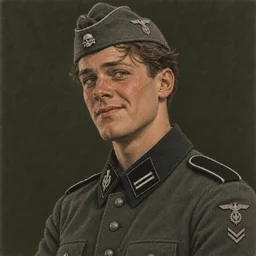
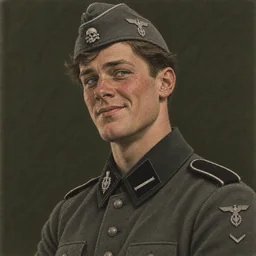
Replace Wendt's portrait with the Sturmmann version and restore his rank
Claude-Session: https://claude.ai/code/session_01FPxW8otRVdngYhnkrH8mAQ

diff --git a/js/systems.js b/js/systems.js
@@ -196,7 +196,7 @@ SIM.makeSSSquad = function (s) {
   s.squad = [
     { id: 'voss', name: 'Erich Voss', role: 'Deputy, MG gunner', age: 24, traits: ['zealot', 'brave'], loyalty: 55, morale: 75, rank: 3,
       bio: 'A Saxon who joined the SS at eighteen. Fought in Poland and France. Would follow Starck into the sea.' },
-    { id: 'wendt', name: 'Theo Wendt', role: 'Rifleman', age: 23, traits: ['joker', 'steady'], loyalty: 55, morale: 70, rank: 3,
+    { id: 'wendt', name: 'Theo Wendt', role: 'Rifleman', age: 23, traits: ['joker', 'steady'], loyalty: 55, morale: 70, rank: 2,
       bio: 'A Hamburg clerk who volunteered "for the adventure". Jokes about everything except the Führer.' },
     { id: 'mayr', name: 'Anton Mayr', role: 'Rifleman', age: 31, traits: ['tired', 'steady'], loyalty: 50, morale: 50, rank: 2,
       bio: 'A former policeman from Tyrol. Saw things in Poland in 1939 that he does not talk about.' },

diff --git a/docs/PAINT_PROMPTS.md b/docs/PAINT_PROMPTS.md
@@ -252,8 +252,8 @@ Rank insignia are set for each man and follow the 1942 Waffen-SS pattern, with t
 
 | Man | Rank | Left collar patch | Sleeve |
 |---|---|---|---|
-| Voss, Wendt | SS-Rottenführer | two silver stripes | two chevrons |
-| Mayr, Brück | SS-Sturmmann | one silver stripe | one chevron |
+| Voss | SS-Rottenführer | two silver stripes | two chevrons |
+| Wendt, Mayr, Brück | SS-Sturmmann | one silver stripe | one chevron |
 | Nowak, Haas | SS-Schütze | plain black | none |
 
 **`voss.png`**
